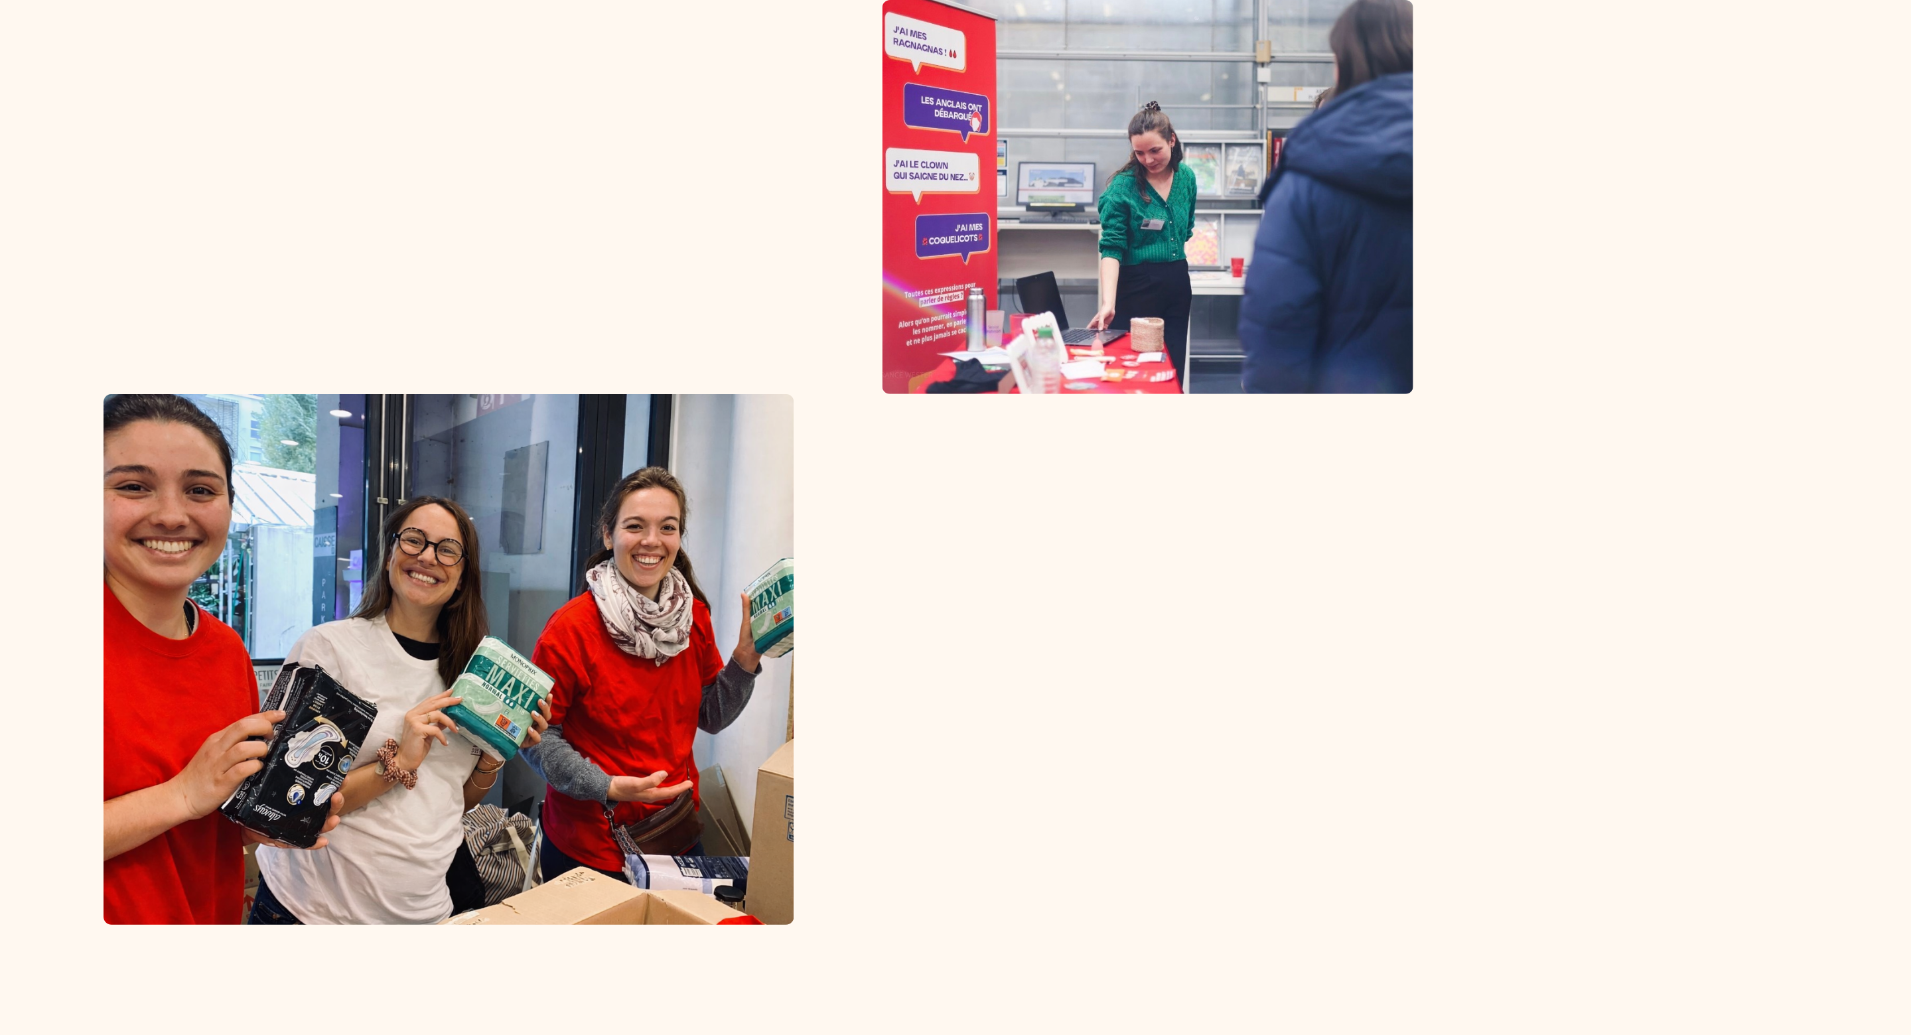
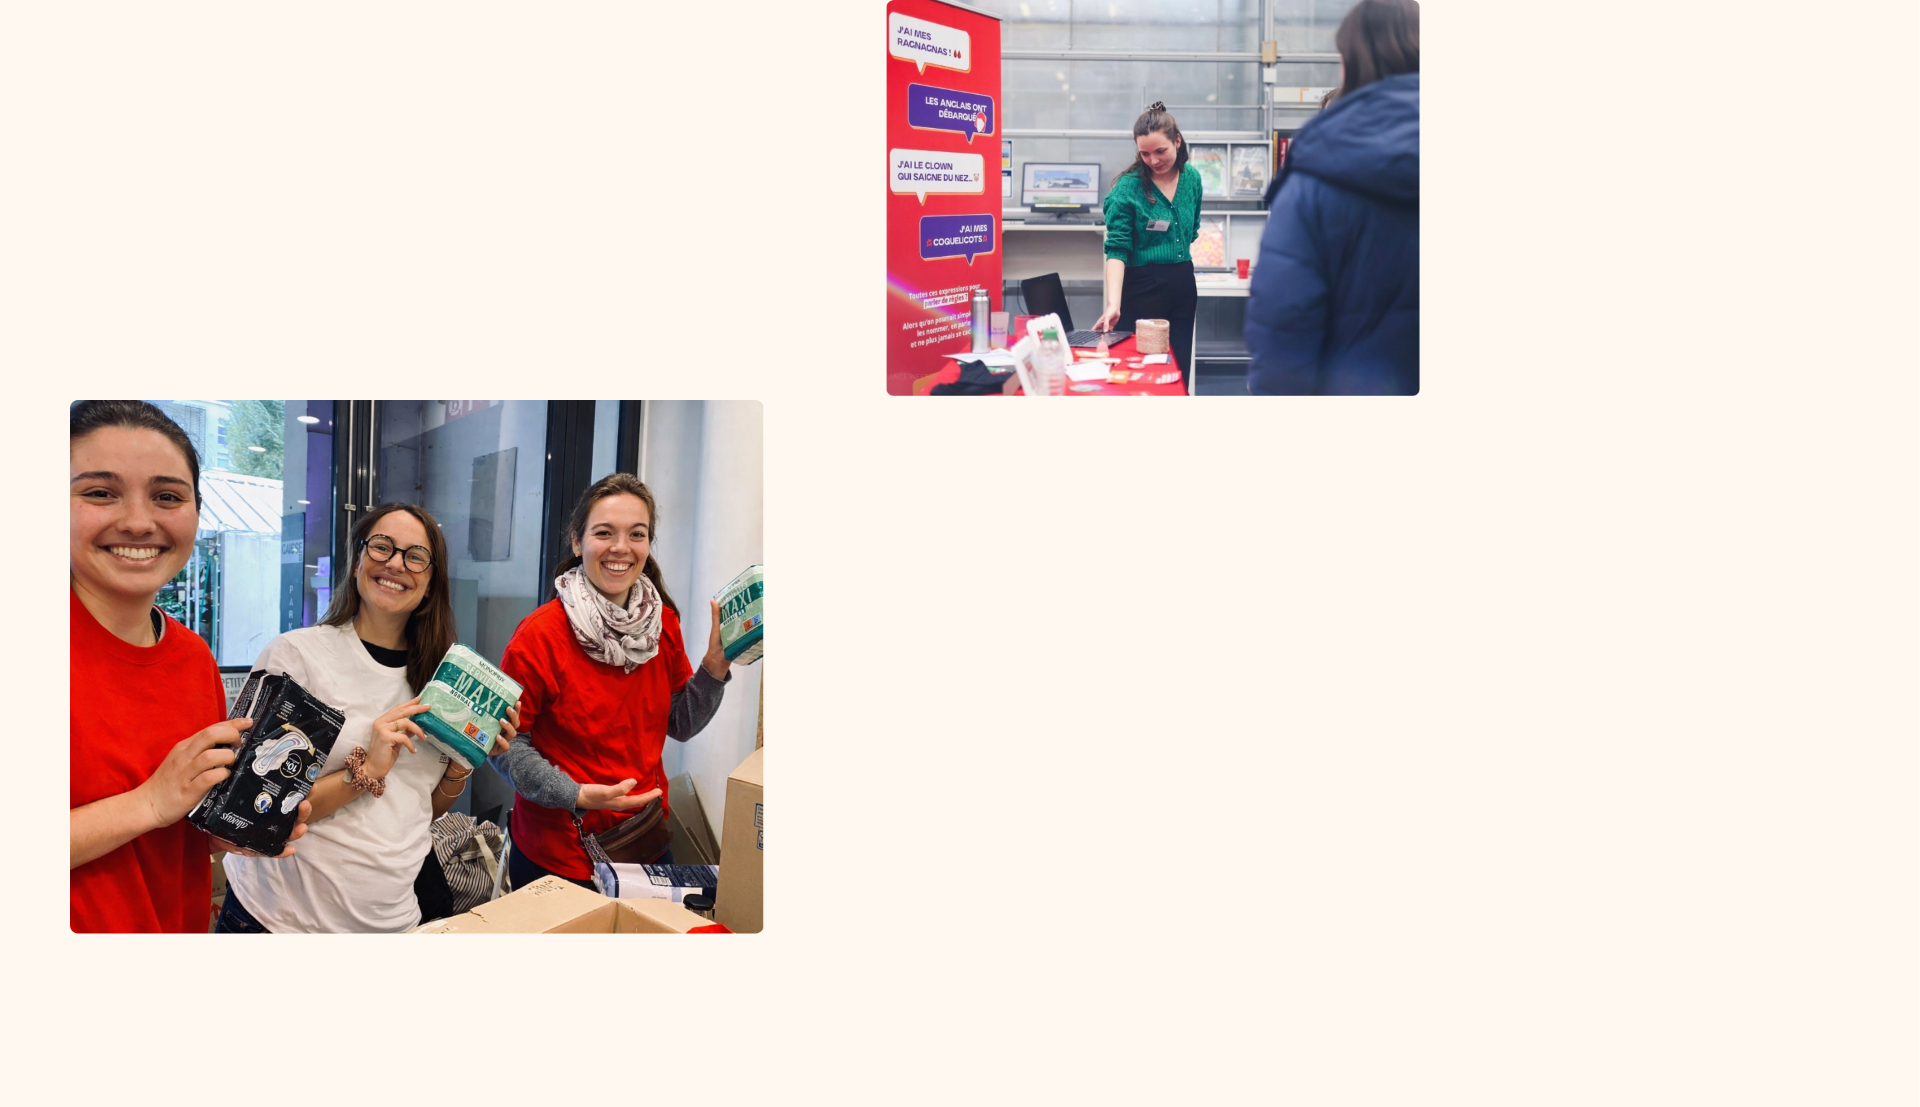
home : hero

Changed region(s): [[0.0309, 0.3401, 0.4322, 0.8966], [0.4631, 0.0, 0.741, 0.4019]]

diff --git a/src/styles/global.css b/src/styles/global.css
@@ -165,8 +165,8 @@ img {
 
 #hero {
 	background-image: url('/images/hero.png');
-	background-size: contain;
-	background-repeat: no-repeat;
+	background-size: cover;
+	background-repeat: no-repeat;	
 }
 
 @media (width < 48rem) { 
